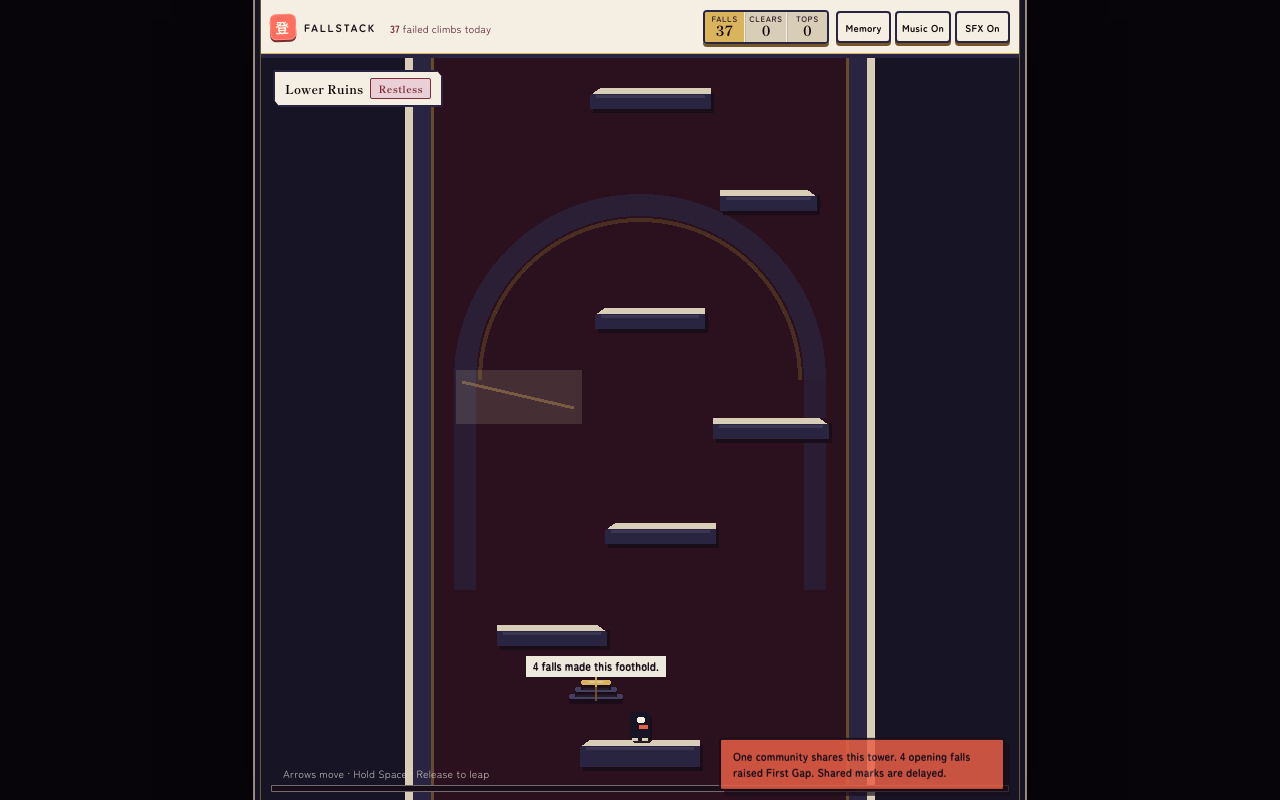
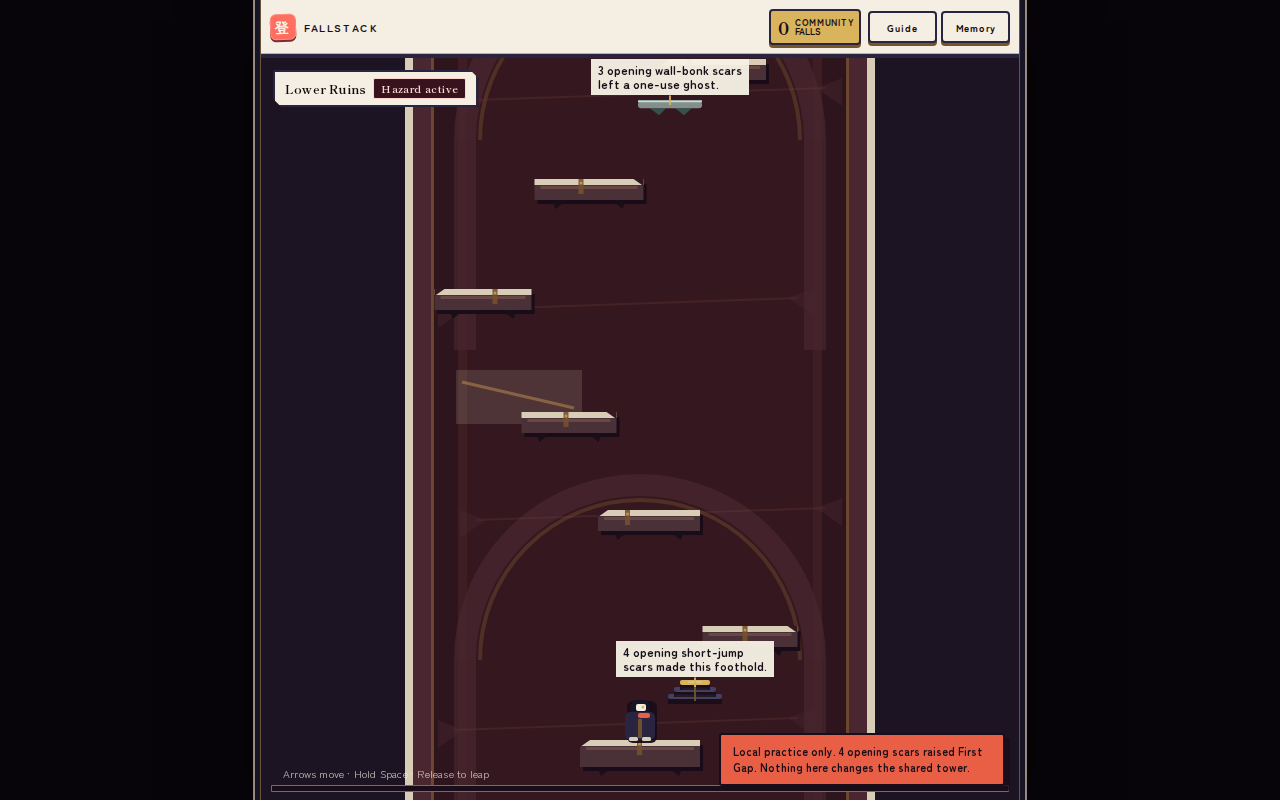
test(qa): refresh feedback regression gates

diff --git a/fallstack/take_screenshots.js b/fallstack/take_screenshots.js
@@ -9,27 +9,33 @@ const baseUrl = process.env.FALLSTACK_SCREENSHOT_URL ?? 'http://127.0.0.1:8080';
 async function assertHeaderBounds(page) {
   await page.locator('.topbar').waitFor();
   const overflow = await page.locator('.topbar').evaluate(header => {
-    const cluster = header.querySelector('.stats-cluster');
-    if (!cluster) return [{ label: 'Missing stats cluster' }];
-    const clusterRect = cluster.getBoundingClientRect();
-    const statOverflow = [...cluster.querySelectorAll('.stat-value')]
-      .map(value => {
-        const valueRect = value.getBoundingClientRect();
+    const headerRect = header.getBoundingClientRect();
+    const regions = [
+      ['Brand', header.querySelector('.topbar-brand')],
+      ['Community tally', header.querySelector('.community-tally')],
+      ['Actions', header.querySelector('.topbar-actions')]
+    ];
+    const missing = regions
+      .filter(([, region]) => !region)
+      .map(([label]) => ({ label: `Missing ${label}` }));
+    const regionOverflow = regions
+      .filter(([, region]) => region)
+      .map(([label, region]) => {
+        const rect = region.getBoundingClientRect();
         return {
-          label: value.previousElementSibling?.textContent ?? 'Unknown stat',
-          left: valueRect.left,
-          right: valueRect.right,
-          top: valueRect.top,
-          bottom: valueRect.bottom
+          label,
+          left: rect.left,
+          right: rect.right,
+          top: rect.top,
+          bottom: rect.bottom
         };
       })
       .filter(
-        value =>
-          (value.right > value.left || value.bottom > value.top) &&
-          (value.left < clusterRect.left ||
-            value.right > clusterRect.right ||
-            value.top < clusterRect.top ||
-            value.bottom > clusterRect.bottom)
+        region =>
+          region.left < headerRect.left ||
+          region.right > headerRect.right ||
+          region.top < headerRect.top ||
+          region.bottom > headerRect.bottom
       );
     const actionRects = [...header.querySelectorAll('.topbar-actions button')].map(button => {
       const rect = button.getBoundingClientRect();
@@ -39,11 +45,11 @@ async function assertHeaderBounds(page) {
       action.left < actionRects[index].right ? [action] : []
     );
 
-    return [...statOverflow, ...actionOverlap];
+    return [...missing, ...regionOverflow, ...actionOverlap];
   });
 
   if (overflow.length > 0) {
-    throw new Error(`Header stat overflow: ${JSON.stringify(overflow)}`);
+    throw new Error(`Header layout overflow: ${JSON.stringify(overflow)}`);
   }
 }
 

diff --git a/fallstack/docs/qa/moderator-feedback-2026-07-23/report.md b/fallstack/docs/qa/moderator-feedback-2026-07-23/report.md
@@ -1,4 +1,4 @@
-# Moderator Feedback Baseline
+# Moderator Feedback Iteration
 
 | Field          | Value                                                                                                          |
 | -------------- | -------------------------------------------------------------------------------------------------------------- |
@@ -17,6 +17,10 @@
 | Medium    | 6     |
 | Low       | 0     |
 | **Total** | **6** |
+
+All six reproduced issues are resolved in the production source and covered by
+the verification checkpoints below. The issue records remain in this report as
+the before-state and reproduction evidence.
 
 ## Root-cause and rules experiment
 
@@ -172,6 +176,24 @@ all passed.
 
 ![Music running after the first input](screenshots/audio-fix-playing.png)
 ![Music restarted after an off/on cycle](screenshots/audio-fix-restarted.png)
+
+### 5. Final local regression
+
+- The refreshed splash, 375×812 mobile, 1280×800 desktop, and 1920×1080
+  screenshot matrix passed current header-region and action-overlap assertions.
+- Chromium completed real touch move/reverse, one fall and grounded respawn,
+  post-respawn movement, release-to-leap, and reduced-motion charge. Normal
+  frames measured 16.7 ms median and 16.8 ms p95 with no frame over 34 ms.
+- WebKit completed the same functional lifecycle using Playwright's held-mouse
+  fallback. That fallback needs longer holds than Chromium's CDP touch driver;
+  the harness now encodes those engine-specific durations instead of comparing
+  their absolute displacement.
+- The two-client shared-session harness deferred revision 39 while airborne,
+  reconciled on a safe point, rendered the six-fall Mercy Nail at First Gap, and
+  reloaded at the same revision with no errors.
+- A fresh production-build climb with an intentional opening fall cleared all
+  154 route platforms and reached the summit in 336 launches with 25 recoverable
+  automation failures and zero page errors.
 
 ## Issues
 

diff --git a/fallstack/docs/design-redesign/status.md b/fallstack/docs/design-redesign/status.md
@@ -235,3 +235,8 @@ Direction C wins because the tower reads as a physical object, community mutatio
   oscillators. Targeted regression tests cover the initialized-bus bug and
   idempotent muted/pending/active states. Type-check, lint, the full 142-test
   suite, production build, and diff validation passed.
+- Final local regression passed the refreshed splash/mobile/desktop/fullscreen
+  matrix, Chromium and WebKit touch/fall/respawn/jump/reduced-motion lifecycles,
+  a two-client deferred shared-board reconciliation, and a fresh 154-platform
+  summit replay with an intentional opening fall. The screenshot and runtime
+  harnesses now assert the current Guide/Memory header and accessibility labels.
